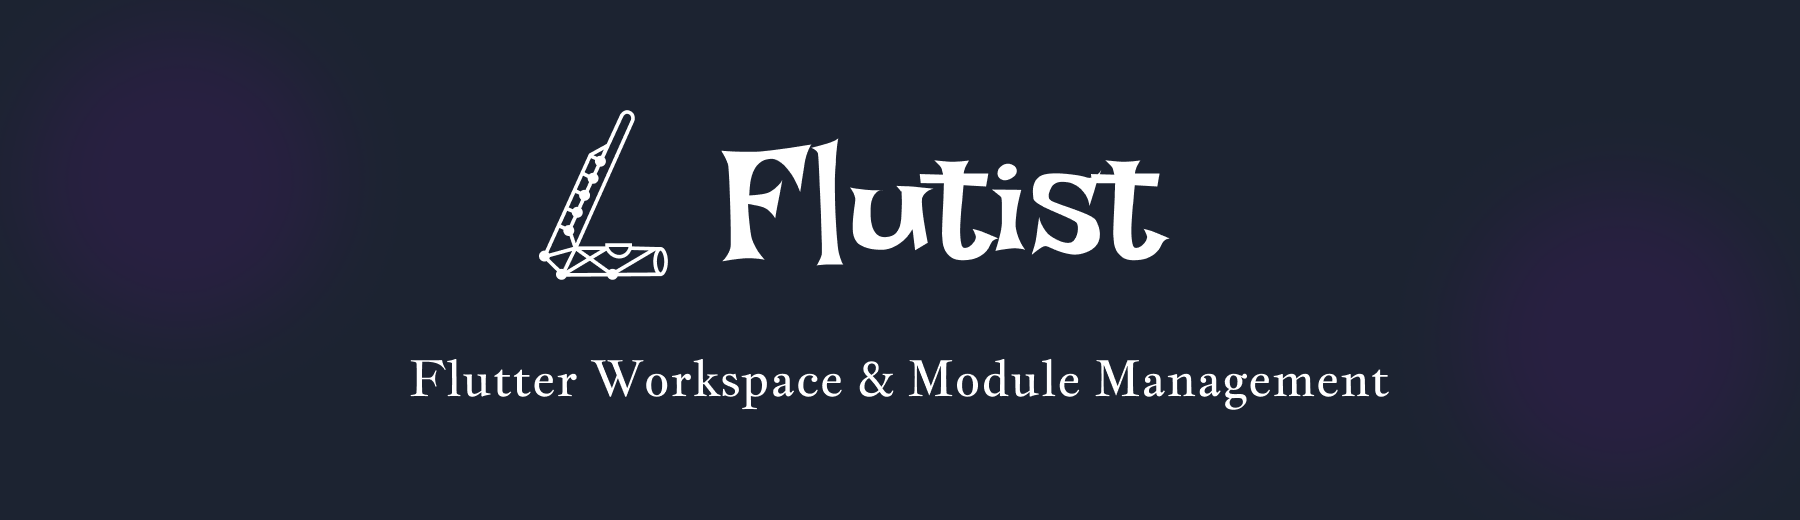
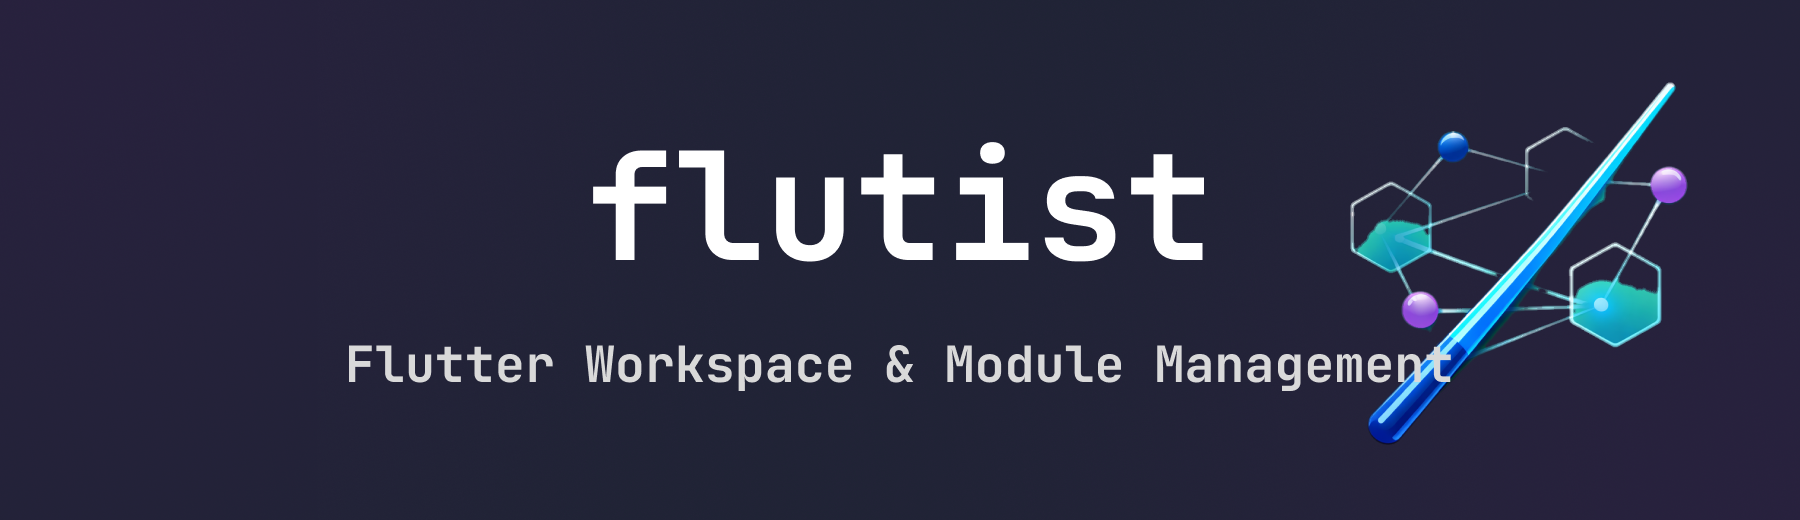
docs: overhaul README with full documentation site content
- Add Core Values, Core Files, Architecture Validation sections
- Expand Project Structure with packages/ directory example
- Fix Commands table bold+code formatting
- Add Learn more about Flutist! link to docs site
- Update banner image
- Record changes in CHANGELOG under [Unreleased]

Changed region(s): [[0.1867, 0.1538, 0.9644, 0.8615], [0.28, 0.2769, 0.6844, 0.5538], [0.3422, 0.2154, 0.3733, 0.2462]]

diff --git a/README.md b/README.md
@@ -1,8 +1,8 @@
 <div align="center">
 
-<img src="https://raw.githubusercontent.com/seonwooke/flutist/main/assets/flutist_banner.png" alt="Flutist Banner">
+<img src="assets/flutist_banner.png" alt="Flutist Banner" width="100%">
 
-**A Flutter project management framework inspired by Tuist**
+**Manage your Flutter modular structure simply and systematically**
 
 [![Docs](https://img.shields.io/badge/Docs-blue.svg?logo=book&logoColor=white)](https://deepwiki.com/seonwooke/flutist)
 [![pub.dev](https://img.shields.io/pub/v/flutist.svg)](https://pub.dev/packages/flutist)
@@ -10,19 +10,33 @@
 
 </div>
 
-## 🎯 About
+
+
+## About
 
 Flutist is a powerful project management framework for Flutter applications, inspired by [Tuist](https://tuist.io) for iOS development. It provides a structured approach to managing large-scale Flutter projects with modular architecture, centralized dependency management, and code generation capabilities.
 
-## 📦 Installation
+Learn more about [**Flutist**](https://flutist-1pn8eqs9s-seonwookes-projects.vercel.app/)!
+
+### Core Values
+
+
+|                   |                                                                    |
+| ----------------- | ------------------------------------------------------------------ |
+| **Declarative**   | Declare your entire project structure with a single `project.dart` |
+| **Single Source** | All dependency versions managed in one place via `package.dart`    |
+| **Rules as Code** | Architecture violations immediately halt generation                |
+
+
+## Installation
 
 ```bash
 dart pub global activate flutist
 ```
 
-**Prerequisites:** Dart SDK (>=3.5.0 <4.0.0)
+**Prerequisites:** Flutter SDK, `~/.pub-cache/bin` in PATH
 
-## 🚀 Quick Start
+## Quick Start
 
 ### 1. Initialize a Project
 
@@ -34,7 +48,7 @@ flutist init
 Flutist adapts based on context:
 
 - **No `pubspec.yaml`**: Asks if you want to create a new Flutter project. If yes, runs `flutter create .` and sets up as a new project automatically. If no, exits with guidance.
-- **`pubspec.yaml` exists**: Asks whether this is a **new project** or an **existing project migration**.
+- `**pubspec.yaml` exists**: Asks whether this is a **new project** or an **existing project migration**.
   - **New project**: Creates `app` module, adds it to workspace, scaffolds `lib/main.dart`
   - **Existing project**: Only creates configuration files (`project.dart`, `package.dart`) and workspace setup — preserves your existing code, `analysis_options.yaml`, and `lib/main.dart`
 
@@ -59,11 +73,8 @@ Layer packages and their dependencies are **automatically wired** in `project.da
 ### 3. Manage Dependencies
 
 ```bash
-# Add a single dependency
-flutist pub add http
-
-# Add multiple dependencies at once
-flutist pub add http dio riverpod
+# Add packages to package.dart with auto-resolved versions
+flutist pub add http bloc flutter_bloc
 
 # Sync dependencies to all modules
 flutist generate
@@ -82,25 +93,33 @@ flutist scaffold feature --name login --path lib/features
 
 Templates live in `flutist/templates/`. Define your own templates to match your project conventions — just like Tuist.
 
-## 📋 Commands
+## Commands
+
 
 | Command | Description | Usage |
 |---------|-------------|-------|
 | **`init`** | Initialize a new or existing project | `flutist init` |
 | **`create`** | Create a new module | `flutist create --name <name> --path <path> [--options <type>]` |
 | **`generate`** | Sync dependencies and regenerate files | `flutist generate` |
-| **`check`** | Check architecture rules | `flutist check` |
+| **`check`** | Check architecture rules (CI-friendly, no file changes) | `flutist check` |
 | **`test`** | Run tests for all modules in parallel (auto-selects `flutter test` or `dart test`) | `flutist test [-m <module>]` |
 | **`scaffold`** | Generate code from templates | `flutist scaffold <template> --name <name>` |
 | **`pub`** | Manage dependencies | `flutist pub add <package>` |
 | **`graph`** | Visualize module dependencies | `flutist graph [--format <format>]` |
 | **`help`** | Show help information | `flutist help [command]` |
 
+
 > **Note:** `flutist generate` manages dependencies declared in `package.dart` and `project.dart`. SDK dependencies (`flutter_localizations`, etc.) and Flutter-specific settings (`flutter: generate: true`, `flutter: uses-material-design: true`) should be added directly to each module's `pubspec.yaml` — they are preserved during generation.
 
-For detailed documentation, visit the [documentation site](https://deepwiki.com/seonwooke/flutist).
+## Core Files
 
-## 📁 Project Structure
+`**package.dart`** — Single source of truth for external package versions and module names. Multiline format is required for parsing.
+
+`**project.dart**` — Declares module dependencies and inter-module relationships. Read by `flutist generate`.
+
+`**flutist_gen.dart**` — Auto-generated type-safe accessors. Never edit manually. Provides `package.dependencies.xxx` and `package.modules.xxx` for IDE autocomplete across all modules.
+
+## Project Structure
 
 A typical Flutist project structure:
 
@@ -116,16 +135,23 @@ my_project/
 │   │   └── app.dart
 │   └── pubspec.yaml
 ├── features/                 # Feature modules
-│   └── login/
-│       ├── login_domain/
-│       ├── login_data/
-│       └── login_presentation/
+│   └── auth/
+│       ├── auth_domain/
+│       ├── auth_data/
+│       └── auth_presentation/
+├── packages/                 # Library modules
+│   └── network/
+│       ├── network_interface/
+│       ├── network_implementation/
+│       ├── network_testing/
+│       ├── network_tests/
+│       └── network_example/
 └── flutist/
     ├── templates/            # Scaffold templates
-    └── flutist_gen.dart      # Generated code
+    └── flutist_gen.dart      # Generated code (never edit manually)
 ```
 
-## 🧩 Scaffold Types
+## Scaffold Types
 
 `flutist create` generates layer packages and **automatically wires their dependencies** in `project.dart`.
 
@@ -137,12 +163,14 @@ my_project/
 flutist create --name login --path features --options clean
 
 features/login/
-├── login_domain/          # Business logic, entities, use cases
+├── login_domain/          # Business rules, entities, use cases (no external deps)
 ├── login_data/            # Repositories, data sources, DTOs
 └── login_presentation/    # UI and state management
 ```
 
 **Auto-wired:** `presentation → domain`, `data → domain`
+
+**Rule:** All dependency arrows point toward `domain`. Domain depends on nothing.
 
 ### Micro (`--options micro`)
 
@@ -160,6 +188,8 @@ packages/network/
 ```
 
 **Auto-wired:** `implementation/testing → interface`, `tests/example → implementation + testing`
+
+**Rule:** Consumers depend only on `interface`. Composition roots inject implementations.
 
 ### Lite (`--options lite`)
 
@@ -179,7 +209,7 @@ packages/auth/
 
 ### Single package (omit `--options`)
 
-No layers. Best for utilities, shared models, or the app shell. This is the default when `--options` is omitted.
+No layers. Best for utilities, shared models, or the app shell.
 
 ```
 flutist create --name utils --path core
@@ -190,16 +220,30 @@ core/utils/
 └── pubspec.yaml
 ```
 
-## ✨ Features
+## Architecture Validation
 
-- **🏗 Modular Architecture**: Organize your codebase into clear, reusable modules
-- **📦 Centralized Dependencies**: Manage all dependencies in one place
-- **🚀 Fast Development**: Generate boilerplate code with scaffold templates
-- **🔗 Dependency Visualization**: Visualize module dependencies with graphs
-- **⚡ Workspace Support**: Leverage Flutter's native workspace feature
-- **🎨 Code Generation**: Create custom templates for rapid development
+`flutist generate` and `flutist check` enforce the following rules automatically:
 
-## 🎨 Scaffold Templates
+1. **Implementation References** — Only composition roots (default: `app`) and same-feature tests/examples may reference `_implementation` packages.
+2. **Testing Layer Isolation** — `_testing` packages are excluded from production dependencies.
+3. **Example Independence** — `_example` modules cannot be referenced by any production code.
+4. **Direction Enforcement** — Same-feature layers follow the declared dependency direction (e.g., `presentation → domain`).
+5. **Circular Dependencies** — Detected via DFS traversal; never permitted.
+
+### Configuration
+
+```dart
+// project.dart
+ProjectOptions(
+  strictMode: true,              // true (default): halt on violation / false: warn only
+  compositionRoots: ['app'],     // modules allowed to reference _implementation
+)
+```
+
+- `**strictMode: true**` (default) — Violations halt `generate`/`check` immediately (exit 1).
+- `**strictMode: false**` — Violations are printed but execution continues. Useful during migration.
+
+## Scaffold Templates
 
 Scaffold lets you define reusable code generation templates for your project — like Tuist scaffold.
 
@@ -217,26 +261,22 @@ flutist/templates/
 ```yaml
 description: "My custom template"
 
-# ── Attributes ────────────────────────────────────────────────────────────────
 # Variables passed from the CLI (e.g. --name login --path lib/features).
 # required: true  → must be provided via CLI, or an error is shown
-# required: false → optional; uses `default` if not provided via CLI
+# required: false → optional; uses `default` if not provided
 attributes:
   - name: name
     required: true
   - name: path
     required: false
     default: "lib/features"
-  - name: withTest           # custom attribute: pass with --withTest true
+  - name: withTest
     required: false
     default: "false"
 
-# ── Items ─────────────────────────────────────────────────────────────────────
-# Files to generate. Supports two types:
-#
-#   type: file   — reads a .template file, applies variable substitution
-#   type: string — writes inline content directly (no .template file needed)
-#
+# Files to generate.
+# type: file   — reads a .template file, applies variable substitution
+# type: string — writes inline content directly (no .template file needed)
 # if: "key == 'value'" — skip this item unless the condition is true
 items:
   - type: file
@@ -252,30 +292,32 @@ items:
   - type: file
     path: "{{path}}/{{name | snake_case}}_test.dart"
     templatePath: "test.dart.template"
-    if: "withTest == 'true'"            # only generated when --withTest true
+    if: "withTest == 'true'"
 ```
 
 The `if:` field supports `==`, `!=`, `&&`, and `||`:
 
 ```yaml
-if: "withTest == 'true'"                        # equality
-if: "withTest != 'false'"                       # inequality
-if: "withTest == 'true' && withMock == 'true'"  # AND
-if: "style == 'bloc' || style == 'cubit'"       # OR
+if: "withTest == 'true'"
+if: "withTest != 'false'"
+if: "withTest == 'true' && withMock == 'true'"
+if: "style == 'bloc' || style == 'cubit'"
 ```
 
 ### Template variables
 
 Use `{{variables}}` inside `.template` files and in `path` values:
 
-| Syntax | Input `user profile` → Output |
-|--------|-------------------------------|
-| `{{name}}` | `user_profile` |
-| `{{name \| pascal_case}}` | `UserProfile` |
-| `{{name \| camel_case}}` | `userProfile` |
-| `{{name \| upper_case}}` | `USER_PROFILE` |
-| `{{path}}` | value of the `path` attribute |
-| `{{withTest}}` | value of any custom attribute |
+
+| Syntax                   | Input `user profile` → Output |
+| ------------------------ | ----------------------------- |
+| `{{name}}`               | `user_profile`                |
+| `{{name | pascal_case}}` | `UserProfile`                 |
+| `{{name | camel_case}}`  | `userProfile`                 |
+| `{{name | upper_case}}`  | `USER_PROFILE`                |
+| `{{path}}`               | value of the `path` attribute |
+| `{{withTest}}`           | value of any custom attribute |
+
 
 ### Example `.template` file
 
@@ -302,52 +344,45 @@ flutist scaffold feature --name login
 # Override path
 flutist scaffold feature --name login --path lib/features
 
-# Custom attribute defined in your template.yaml
+# Pass a custom attribute defined in template.yaml
 flutist scaffold page --name home --withTest true
 ```
 
-Custom attributes defined in `template.yaml` are automatically available as `--<attribute>` CLI flags. The default `feature` template has `name` and `path` — add your own attributes to match your conventions.
+Custom attributes defined in `template.yaml` are automatically available as `--<attribute>` CLI flags.
 
-## 📚 Examples
+## Examples
 
-### Real-World Example Projects
-
-#### Clean Architecture Example
+### Clean Architecture Example
 
 A complete Flutter project demonstrating Clean Architecture principles using Flutist:
 
-🔗 **[flutist_clean_architecture](https://github.com/seonwooke/flutist_clean_architecture)**
+**[flutist_clean_architecture](https://github.com/seonwooke/flutist_clean_architecture)**
 
-This repository showcases:
-- Clean Architecture implementation with Flutist
-- Feature modules with Domain, Data, and Presentation layers
+- Clean Architecture with Domain, Data, and Presentation layers
 - Centralized dependency management
-- Modular project structure
 - Best practices for large-scale Flutter applications
 
-#### Microfeature Architecture Example
+### Microfeature Architecture Example
 
 A complete Flutter project demonstrating Microfeature Architecture principles using Flutist:
 
-🔗 **[flutist_microfeature_architecture](https://github.com/seonwooke/flutist_microfeature_architecture)**
+**[flutist_microfeature_architecture](https://github.com/seonwooke/flutist_microfeature_architecture)**
 
-This repository showcases:
-- Microfeature Architecture implementation with Flutist
-- Reusable library modules with Interface, Implementation, Tests, and Testing layers
+- Microfeature Architecture with Interface, Implementation, Tests, and Testing layers
+- Reusable library modules with full isolation
 - Centralized dependency management
-- Modular project structure
 
-## 🤝 Contributing
+## Contributing
 
 Contributions are welcome! Please feel free to submit a Pull Request.
 
 For development setup and guidelines, see the [documentation site](https://deepwiki.com/seonwooke/flutist).
 
-## 📄 License
+## License
 
 This project is licensed under the MIT License.
 
-## 🔗 Resources
+## Resources
 
 - [Flutter Documentation](https://flutter.dev/docs)
 - [Dart Documentation](https://dart.dev/guides)

diff --git a/CHANGELOG.md b/CHANGELOG.md
@@ -2,6 +2,18 @@
 
 All notable changes to Flutist will be documented in this file.
 
+## [Unreleased]
+
+### 📝 Documentation
+
+- **README overhaul**: Rewrote and expanded README with full documentation site content
+  - Added Core Values section (Declarative, Single Source, Rules as Code)
+  - Added Core Files section (`package.dart`, `project.dart`, `flutist_gen.dart`)
+  - Added Architecture Validation section (5 rules + `strictMode`/`compositionRoots` config)
+  - Expanded Project Structure with `packages/` directory example
+  - Fixed Commands table bold+code formatting (`**\`command\`**`)
+  - Added "Learn more about Flutist!" link to docs site
+
 ## [3.0.0] - 2026-04-13
 
 ### 💥 Breaking Changes
